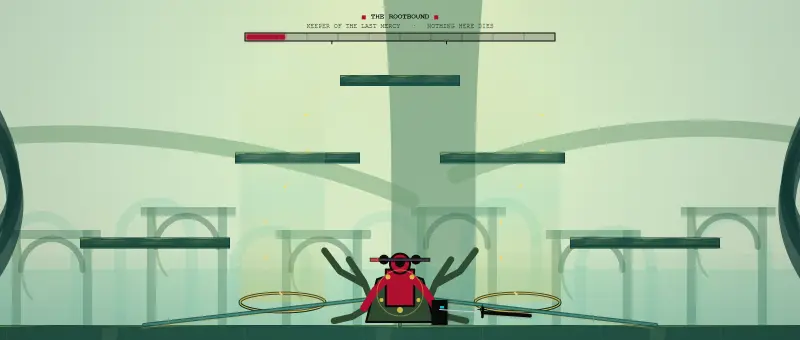
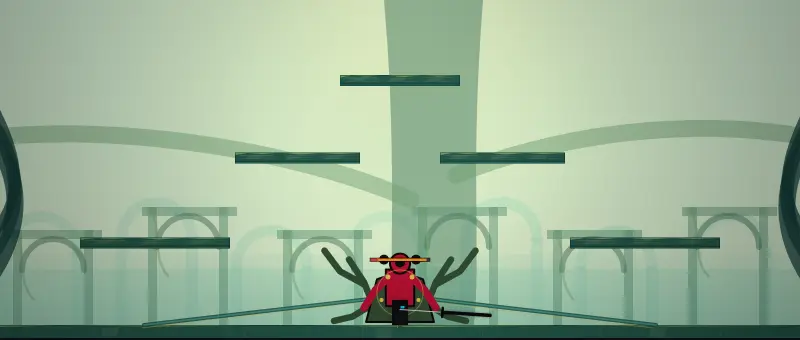
Make the wiki ready for production: clean deploy checkout, declared boss warnings, no-figure layout, fresh pictures

diff --git a/src/game-reference/wiki-data.ts b/src/game-reference/wiki-data.ts
@@ -62,12 +62,24 @@ export interface WikiStyleInput {
   readonly varietyMultiplier: number;
 }
 
+/** A boss move the game declares as data (a boss attack table): when it can be used and its warning. */
+export interface WikiBossMove {
+  readonly id: string;
+  readonly phases: readonly number[];
+  /** The authored warning before the move lands, in seconds. */
+  readonly tellSeconds: number;
+  /** False for a move that only places something on the stage and never strikes. */
+  readonly strikes: boolean;
+}
+
 export interface WikiDataInput {
   readonly reference: GameReferenceV1;
   /** Published enemy identities in canonical order and their Codex copy. */
   readonly enemyIds: readonly string[];
   readonly enemyCopy: Readonly<Record<string, WikiEnemyCopy>>;
   readonly bossCopy: Readonly<Record<string, string>>;
+  /** Moves of each boss that declares them as data, keyed by boss id. Older bosses declare none. */
+  readonly bossMoves: Readonly<Record<string, readonly WikiBossMove[]>>;
   /** Base stats read from real constructed instances, keyed by enemy kind or boss id. */
   readonly bodies: Readonly<Record<string, WikiBodyStats>>;
   readonly affixes: readonly EnemyAffix[];
@@ -127,6 +139,7 @@ export interface WikiDataV1 {
       color: string;
       stats: WikiBodyStats;
       phaseMarks: readonly number[];
+      moves: readonly WikiBossMove[];
     }
   >[];
   readonly stages: readonly Readonly<Omit<GameReferenceStageV1, "musicId">>[];
@@ -238,6 +251,7 @@ export function buildWikiDataV1(input: WikiDataInput): WikiDataV1 {
     color: requireRecord(input.colors, "boss", "identity colour"),
     stats: bodyStats(requireRecord(input.bodies, boss.id, "body stats")),
     phaseMarks: [...boss.phaseMarks],
+    moves: [...(input.bossMoves[boss.id] ?? [])],
   }));
 
   const release = new Set(input.releaseModeIds);

diff --git a/wiki/site/style.css b/wiki/site/style.css
@@ -126,7 +126,11 @@ meter { width: 100%; height: .5rem; }
 
 /* generated pictures */
 .pic { display: block; max-width: 100%; height: auto; border: 1px solid var(--line); background: var(--paper); }
-.pic.fig { float: right; width: 8rem; margin: 0 0 .8rem 1rem; image-rendering: auto; }
+.pic.fig { width: 8rem; margin: 0; image-rendering: auto; }
+/* The Codex line with its figure beside it; with no figure the text takes the whole width. */
+.intro { display: grid; gap: 1rem; margin-bottom: .8rem; }
+.intro.with-figure { grid-template-columns: 1fr 8rem; align-items: start; }
+.intro .codex { margin: 0; }
 .pic.wide { width: 100%; max-width: 40rem; margin: 1rem 0; }
 .phase h3 { margin-top: 1.2rem; }
 .muted { color: var(--muted); }

diff --git a/wiki/media/figures.ts b/wiki/media/figures.ts
@@ -36,6 +36,8 @@ const player = { x: 360, y: 0, hw: 16, hh: 25, facing: 1, invulnerable: false, d
   Object.assign(inst, { x: 0, y: 0, facing: 1, flash: 0, stun: 0, spawnT: 0, _noBar: true });
   ctx.translate(80, 80); ctx.scale(s, s);
   inst.draw(ctx, player);
+  // A figure that drew nothing is no figure: the page then has no picture and no empty space for one.
+  if (!ctx.getImageData(0, 0, 160, 160).data.some((v, i) => i % 4 === 3 && v > 0)) return "";
   return canvas.toDataURL("image/webp", 0.8);
 };
 (window as unknown as { ready: boolean }).ready = true;
